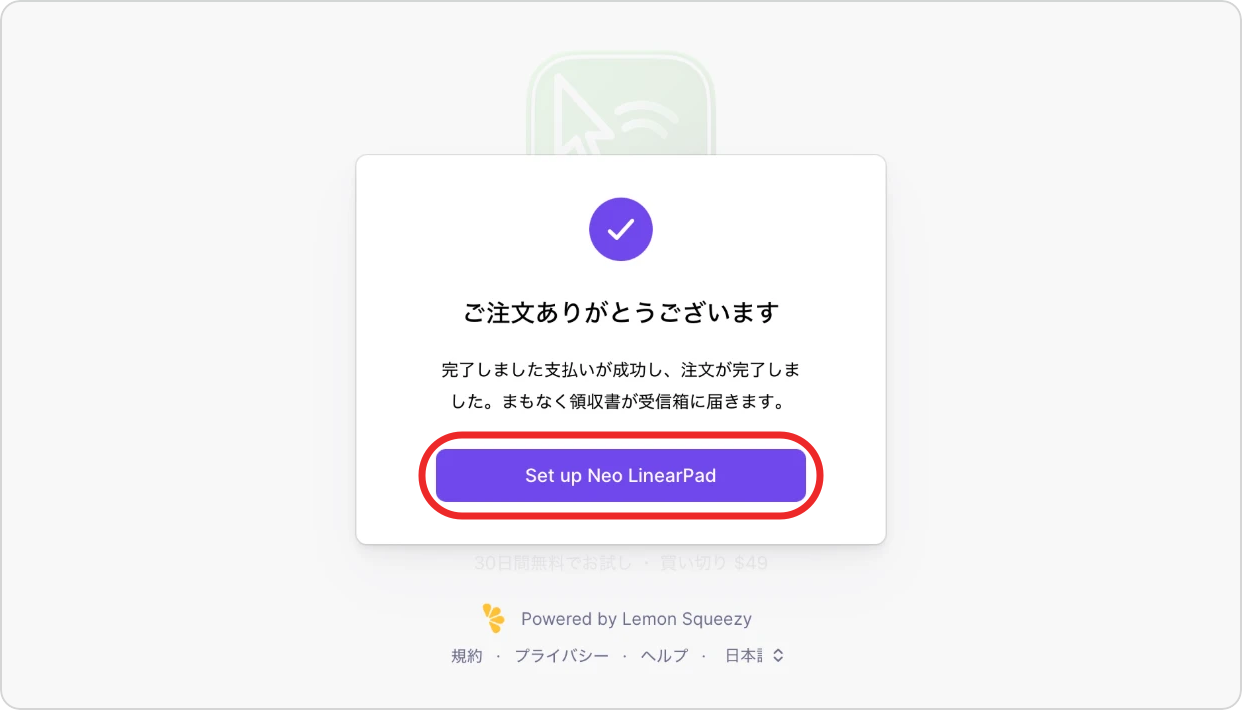
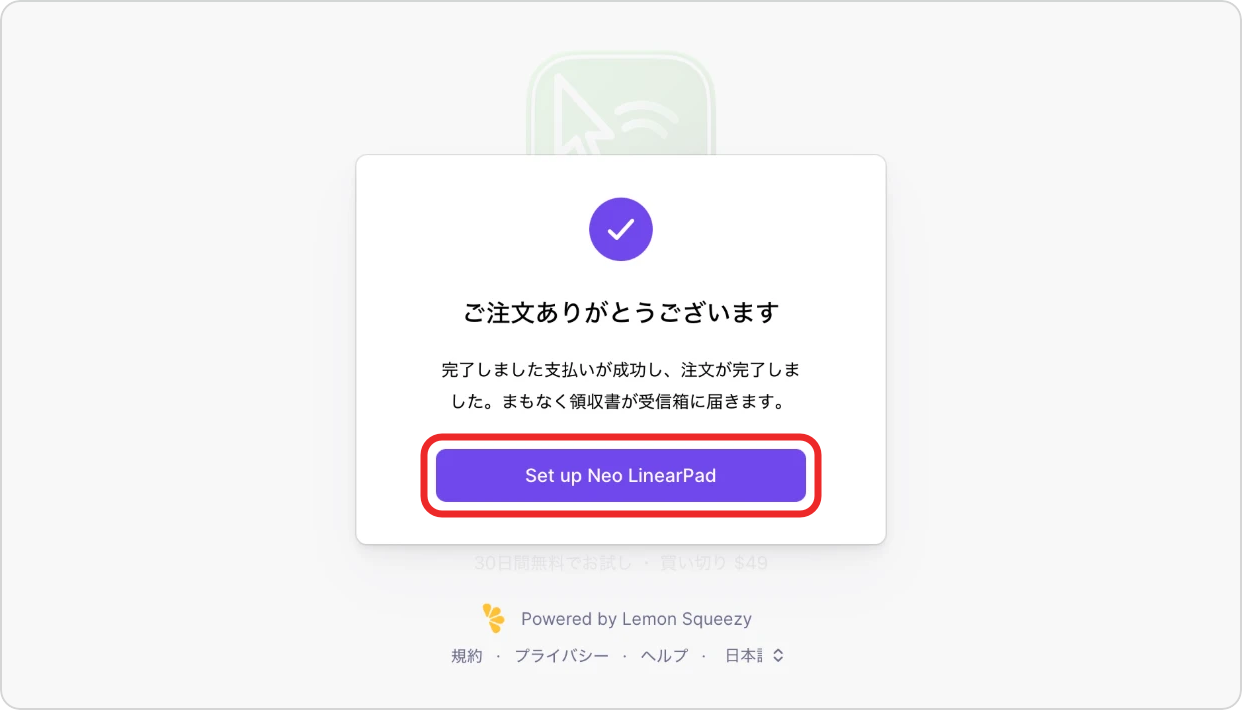
After-purchase images: ring follows the Set up button's corners; smaller ring on Allow

Changed region(s): [[0.3366, 0.5887, 0.6731, 0.7437]]

diff --git a/ja/index.html b/ja/index.html
@@ -74,12 +74,12 @@
               <img src="../assets/guide/buy-1-choose.png?v=1" alt="「すぐに買い切り購入」を選ぶ" loading="lazy">
             </li>
             <li>購入が終わると出る画面で、「Set up <span class="notranslate" translate="no">Neo LinearPad</span>」を押します。同じボタンは、購入完了のメールにもあります。
-              <img src="../assets/guide/buy-2-complete.png?v=2" alt="購入完了の画面" loading="lazy">
+              <img src="../assets/guide/buy-2-complete.png?v=3" alt="購入完了の画面" loading="lazy">
             </li>
             <li>無料版の有無にかかわらず、同じアプリが自動でダウンロードされます。<br>無料版を使われたことの無い方は、ダウンロードされたファイルをクリックし、アプリケーションにドラッグして開いてください。<a class="inline-link" href="#install-guide" data-open-guide="install-guide">詳しくはこちら</a></li>
             <li>ページの「こちらをクリックでライセンスを自動登録」を押します。ブラウザにアプリを開くか確認が出たら、「許可」（Chrome では「<span class="notranslate" translate="no">Neo LinearPad</span> を開く」）を押します。
               <img src="../assets/guide/buy-3-button.png?v=2" alt="「こちらをクリックでライセンスを自動登録」を押す" loading="lazy">
-              <img src="../assets/guide/buy-3-activate.png?v=4" alt="ブラウザの確認で「許可」を押す" loading="lazy">
+              <img src="../assets/guide/buy-3-activate.png?v=5" alt="ブラウザの確認で「許可」を押す" loading="lazy">
             </li>
             <li>アプリに「ライセンスが有効になりました」と出れば完了です。
               <img src="../assets/guide/buy-4-done.png?v=3" alt="「ライセンスが有効になりました」の表示" loading="lazy">
